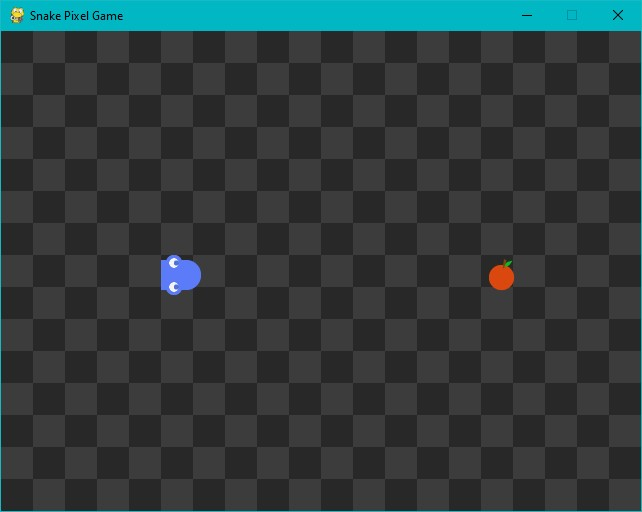
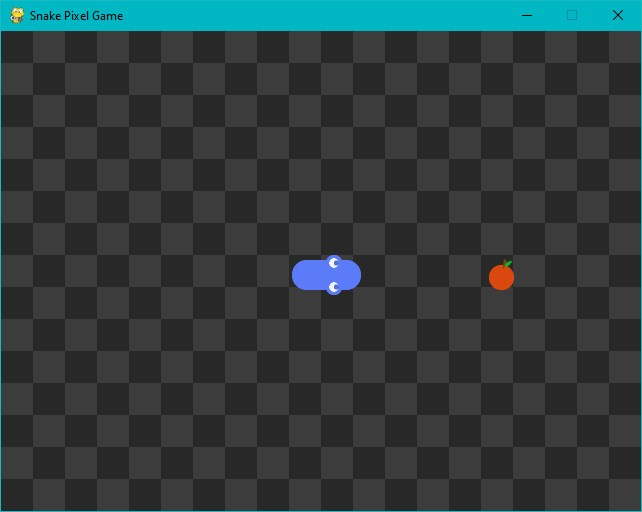
git init

Changed region(s): [[0.4361, 0.5, 0.5607, 0.5938], [0.2492, 0.5, 0.3115, 0.5938]]

diff --git a/app.py b/app.py
@@ -119,7 +119,10 @@ def game_over_screen(score):
 
 # -------------------- GAME FUNCTION --------------------
 def main():
-    snake = [(5, 7)]
+    snake = [
+        (GRID_WIDTH // 2, GRID_HEIGHT // 2),       
+        (GRID_WIDTH // 2 - 1, GRID_HEIGHT // 2)    
+    ]
     direction = (1, 0)
     grow_snake = False
     started = False
